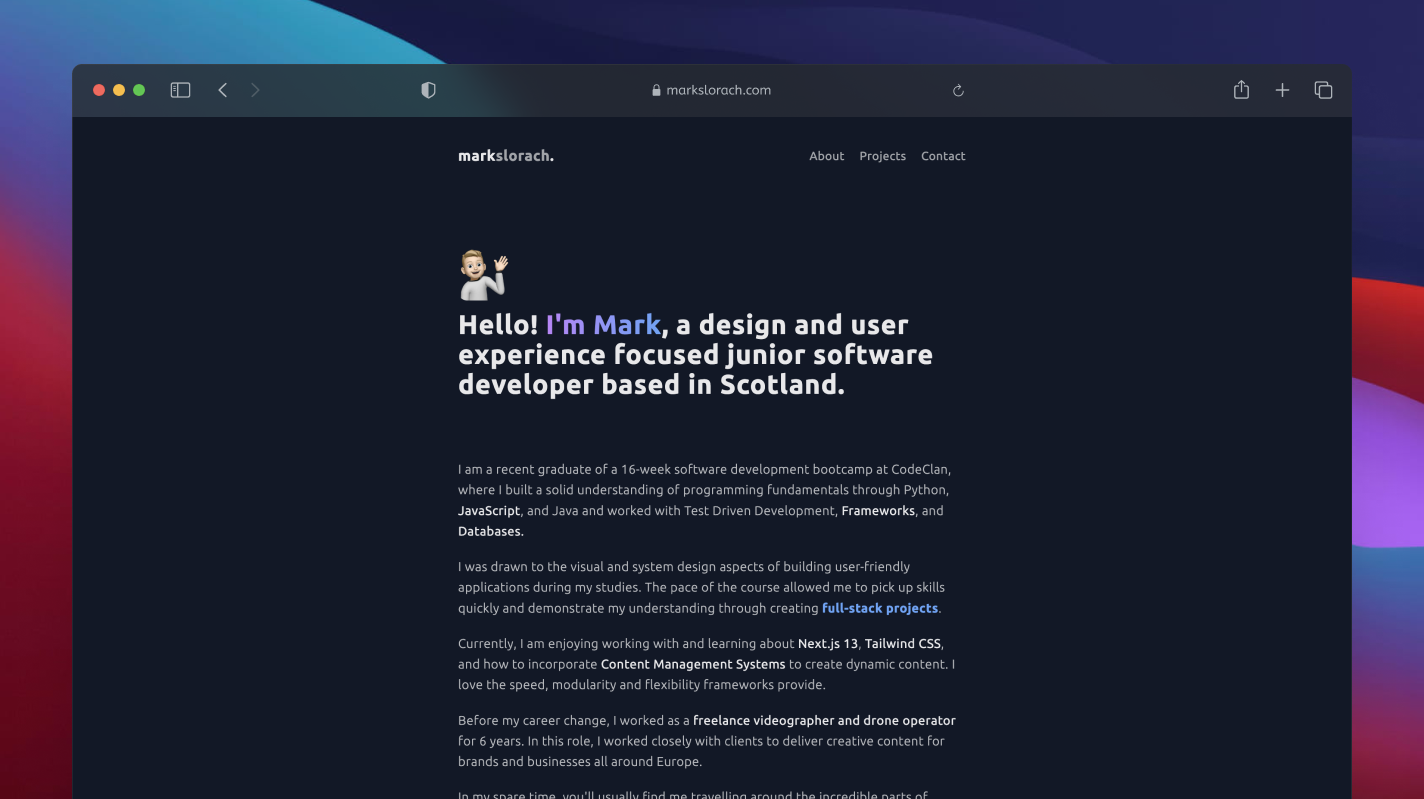
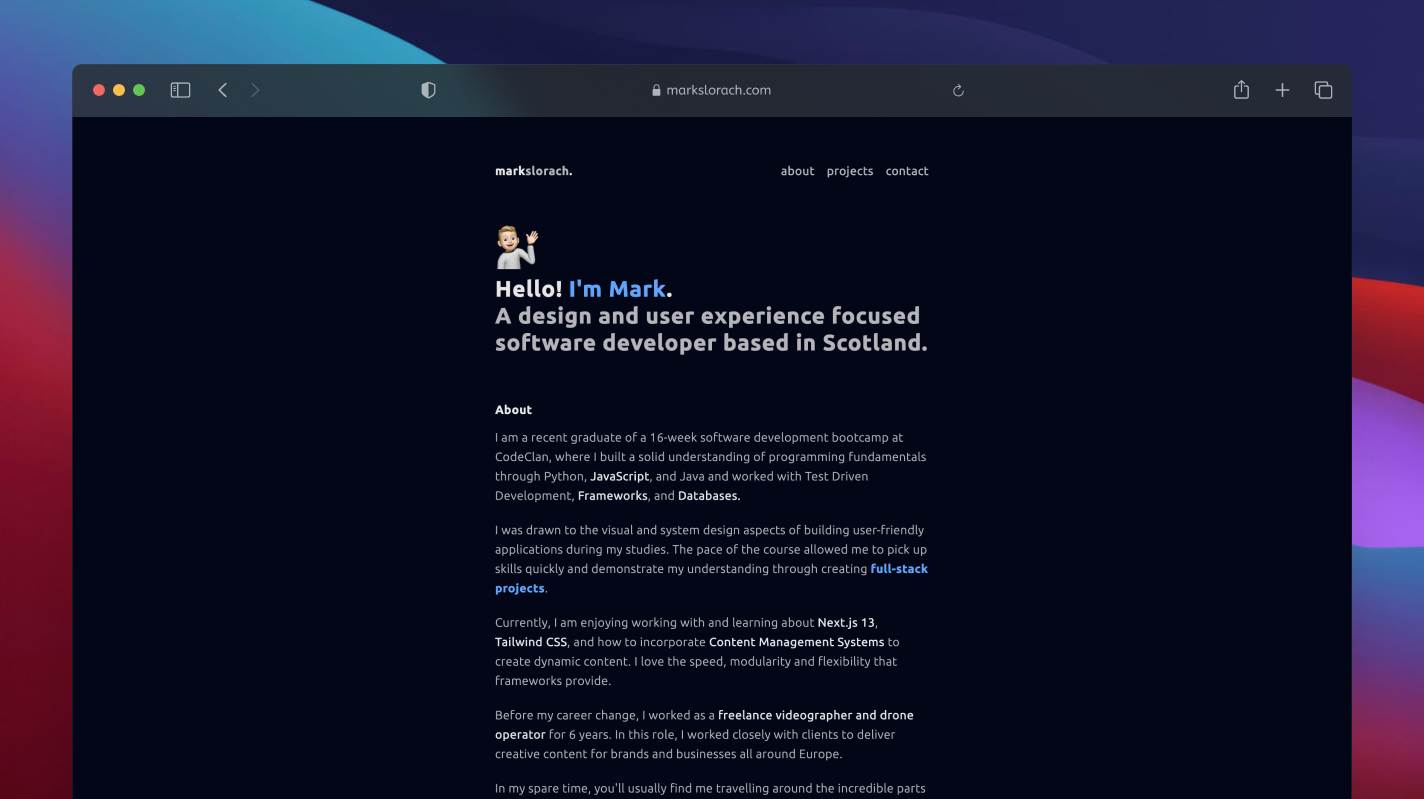
update

Changed region(s): [[0.309, 0.2703, 0.6798, 1.0], [0.5562, 0.1802, 0.6798, 0.2403], [0.309, 0.1802, 0.4017, 0.2403]]

diff --git a/app/(site)/(home)/components/Experience.jsx b/app/(site)/(home)/components/Experience.jsx
@@ -11,13 +11,13 @@ export default function Experience() {
         </div>
         <div class="col-span-3 sm:col-span-3">
           <h2 className="mb-2">CodeClan</h2>
-          <h3 className="text-white/70 text-sm mb-4 font-light">
+          <h3 className="text-white/50 text-sm mb-4 font-light">
             Professional Software Development
           </h3>
           <p className="font-light text-white/70 mb-4">
-          I spent 16 weeks building a solid understanding of software development fundamentals, creating full-stack applications using frameworks, databases, RESTful APIs and test-driven development, utilising version control and agile methodologies in solo and group projects.
+          Spent 16 weeks building a solid understanding of software development fundamentals, creating full-stack applications using frameworks, databases, RESTful APIs and test-driven development, utilising version control and agile methodologies in solo and group projects.
           </p>
-          <p className="text-white/70 font-light text-sm">
+          <p className="text-white/50 font-light text-sm">
             JavaScript • React • Express.js • PostgreSQL • MongoDB • Java • Spring
           </p>
         </div>

diff --git a/app/(site)/projects/[project]/page.jsx b/app/(site)/projects/[project]/page.jsx
@@ -1,10 +1,14 @@
 import { getProject } from "@/sanity/sanity-utils";
 import { PortableText } from "@portabletext/react";
-import { RichTextComponents } from "../../components/RichTextComponents";
 import { notFound } from "next/navigation";
+import Link from "next/link";
+
+// Icons
+import GitHubIcon from "@mui/icons-material/GitHub";
 
 // Components
 import ImageCarousel from "./ImageCarousel";
+import { RichTextComponents } from "../../components/RichTextComponents";
 
 export const revalidate = 0;
 
@@ -21,7 +25,16 @@ export default async function Project({ params }) {
       <figure className="mb-16">
         <ImageCarousel images={project.images} />
       </figure>
-      <h2 className="">{project.title}</h2>
+
+      <Link
+        href={project.github}
+        target="_blank"
+        className="flex items-center gap-2"
+      >
+        <GitHubIcon fontSize="medium" className="text-white/90" />
+        <h2 className="">{project.title}</h2>
+      </Link>
+
       <PortableText value={project.content} components={RichTextComponents} />
     </main>
   );

diff --git a/app/(site)/(home)/components/ProjectCard.jsx b/app/(site)/(home)/components/ProjectCard.jsx
@@ -1,8 +1,8 @@
 "use client";
+import Link from "next/link";
 
 // Icons
 import GitHubIcon from "@mui/icons-material/GitHub";
-import Link from "next/link";
 
 export default function ProjectCard({ title, summary, github, image, slug }) {
   return (

diff --git a/app/(site)/(home)/components/ProjectList.jsx b/app/(site)/(home)/components/ProjectList.jsx
@@ -1,6 +1,8 @@
 // Components
 import ProjectCard from "./ProjectCard";
 
+export const revalidate = 0;
+
 // Data fetch coming from HomePage.jsx
 export default function ProjectList({ projects }) {
   return (
